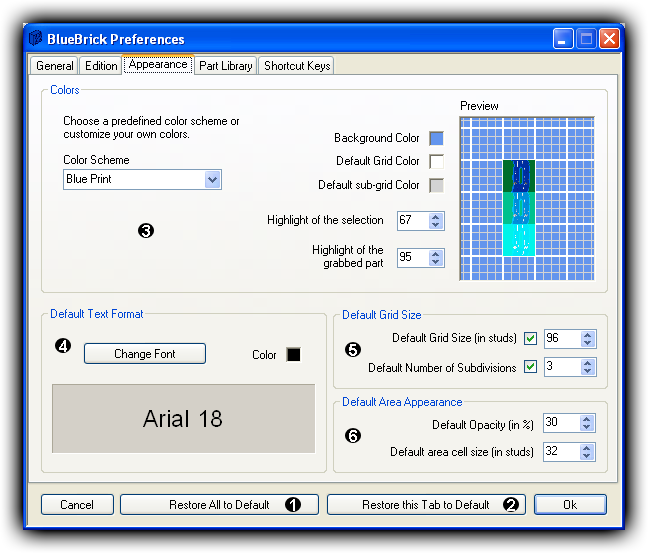
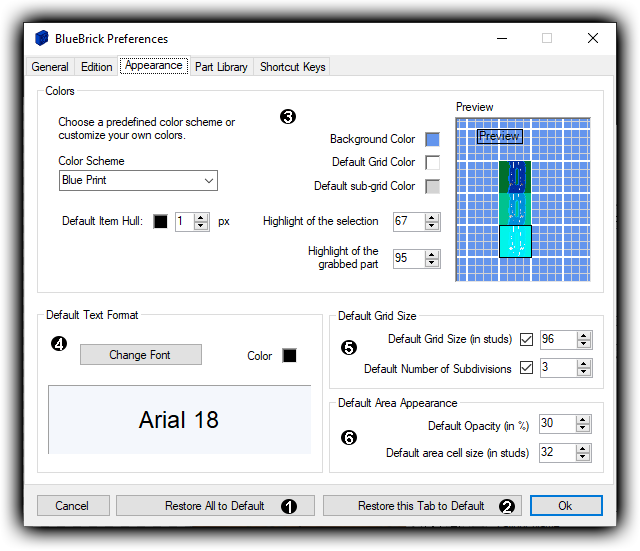
| update images of the Appearance Preference tab in all language | minor update to the doc of the Appearance Preference tab

diff --git a/Help/es/Preferences_Appearance.htm b/Help/es/Preferences_Appearance.htm
@@ -1,22 +1,23 @@
-<HTML>
-<HEAD>
-<!-- Inserted by TRADOS: --><META HTTP-EQUIV="content-type" CONTENT="text/html; charset=windows-1252">
+<html>
+<head>
+<meta http-equiv="content-type" content="text/html; charset=utf-8">
+<meta name="keywords" content="BlueBrick, Help">
+<meta name="description" content="The reference documentation for BlueBrick.">
+<meta name="author" content="Alex McKenna">
+<link rel="StyleSheet" href="../BlueBrick.css" type="text/css" media="screen">
+<title>Opciones de apariencia</title>
+</head>
+<body>
+<h1>Preferencias de apariencia</h1>
+<center><img src="Preferences_Appearance.png"></center>
 
-<META NAME="keywords" CONTENT="BlueBrick, Help">
-<META NAME="description" CONTENT="The reference documentation for BlueBrick.">
-<META NAME="author" CONTENT="Alex McKenna">
-<LINK REL=StyleSheet HREF="../BlueBrick.css" TYPE="text/css" MEDIA=screen>
-<Title>Opciones de apariencia</Title>
-</HEAD>
-<BODY>
-<H1>Preferencias de apariencia</H1>
-<CENTER><IMG SRC="Preferences_Appearance.png"></CENTER>
+<p>El botón <span class="RefNumber">1</span> le permite restaurar todas las preferencias a sus valores por defecto, como cuando instaló BlueBrick por primera vez. El botón <span class="RefNumber">2</span> le permite restaurar sólo las preferencias mostradas en la categoría visible actual.</p>
 
-<P>El <B>esquema de colores</B> <span class="RefNumber">3</span> por defecto es &quot;Blue Print&quot;. Tambi&eacute;n puedes seleccionar las versiones Pergamino o Cl&aacute;sico. Puedes crear esquemas de colores personalizados seleccionando la opci&oacute;n &quot;Personalizado de la lista desplegable y seleccionando tus colores en las cajas de colores al lado de las descripciones de texto : &quot;Color de fondo&quot;, &quot;Color de cuadr&iacute;cula &quot; y &quot;Color de sub-cuadr&iacute;cula&quot; <div class="ToTranslate">You can also adjust the highlight percentage for the selected parts and for the single part you grab in a group of selected parts.</div> El resultado de tu selecci&oacute;n de colores se mostrar&aacute; en la ventana de muestra. Los cambios no tendr&aacute;n efecto hasta que pulses &quot;OK&quot;.</P>
+<P>El <B>esquema de colores</B> <span class="RefNumber">3</span> por defecto es &quot;Blue Print&quot;. Tambi&eacute;n puedes seleccionar las versiones Pergamino o Cl&aacute;sico. Puedes crear esquemas de colores personalizados seleccionando la opci&oacute;n &quot;Personalizado de la lista desplegable y seleccionando tus colores en las cajas de colores al lado de las descripciones de texto : &quot;Color de fondo&quot;, &quot;Color de cuadr&iacute;cula &quot; y &quot;Color de sub-cuadr&iacute;cula&quot; <div class="ToTranslate">Below, you can adjust the highlight percentage for the selected parts and for the single part you grab in a group of selected parts. You can also set the default color and size of the item hull (this apply to parts, texts and rulers).</div> El resultado de tu selecci&oacute;n de colores se mostrar&aacute; en la ventana de muestra. Los cambios no tendr&aacute;n efecto hasta que pulses &quot;OK&quot;.</P>
 
-<p>You can also set the <b>default text format</b> <span class="RefNumber">4</span> (font style and color) which will be used each time you create a new text on your map.</p>
+<p>You can also set the <b>default text format</b> <span class="RefNumber">4</span> (font style and color) which will be used each time you create a new text on your map. This settings also affect the dimension displayed by the rulers.</p>
 
 <p>Similarly you can set the default settings for each new grid layer <span class="RefNumber">5</span> and each new area layer <span class="RefNumber">6</span>. To tune the default ruler style see the <a href="Preferences_Edition.htm">Edition Preference</a> section.</p>
 
-</BODY>
-</HTML>
+</body>
+</html>

diff --git a/Help/nl/Preferences_Appearance.htm b/Help/nl/Preferences_Appearance.htm
@@ -1,20 +1,22 @@
-<HTML>
-<HEAD>
-<META NAME="keywords" CONTENT="BlueBrick, Help">
-<META NAME="description" CONTENT="The reference documentation for BlueBrick.">
-<META NAME="author" CONTENT="Alex McKenna">
-<LINK REL=StyleSheet HREF="../BlueBrick.css" TYPE="text/css" MEDIA=screen>
-<Title>Beschikbare verbindingspunten</Title>
-</HEAD>
-<BODY>
-<H1>Beschikbare verbindingspunten</H1>
-<CENTER><IMG SRC="Preferences_Appearance.png"></CENTER>
+<html>
+<head>
+<meta name="keywords" content="BlueBrick, Help">
+<meta name="description" content="The reference documentation for BlueBrick.">
+<meta name="author" content="Alex McKenna">
+<link rel="StyleSheet" href="../BlueBrick.css" type="text/css" media="screen">
+<title>Beschikbare verbindingspunten</title>
+</head>
+<body>
+<h1>Beschikbare verbindingspunten</h1>
+<center><img src="Preferences_Appearance.png"></center>
 
-<P>Het standaard <B>kleurenschema</B> <span class="RefNumber">3</span> is "Blue Print". Je kunt ook voor klassieke versies kiezen. Aangepaste kleurenschema's kunnen worden gemaakt door te kiezen voor "Custom" uit drop-down lijst en het kiezen van de gewenste kleuren door te klikken op de kleur vakjes naast de tekst vermeldingen, "Achtergrondkleur", "Standaard RasterKleur" en "Standaard sub-raster kleur". <div class="ToTranslate">You can also adjust the highlight percentage for the selected parts and for the single part you grab in a group of selected parts.</div> Het resultaat van de kleur selectie zal worden weergegeven in het voorbeeldvenster.  De veranderingen zullen pas van kracht na het klikken op de "OK" button.</P>
+<p>Met de knop <span class="RefNumber">1</span> kun je alle voorkeuren terugzetten naar hun standaardwaarden, zoals toen je BlueBrick voor de eerste keer installeerde. Met de knop <span class="RefNumber">2</span> kun je alleen de voorkeuren herstellen die in de huidige zichtbare categorie worden weergegeven.</p>
 
-<p>You can also set the <b>default text format</b> <span class="RefNumber">4</span> (font style and color) which will be used each time you create a new text on your map.</p>
+<p>Het standaard <B>kleurenschema</B> <span class="RefNumber">3</span> is "Blue Print". Je kunt ook voor klassieke versies kiezen. Aangepaste kleurenschema's kunnen worden gemaakt door te kiezen voor "Custom" uit drop-down lijst en het kiezen van de gewenste kleuren door te klikken op de kleur vakjes naast de tekst vermeldingen, "Achtergrondkleur", "Standaard RasterKleur" en "Standaard sub-raster kleur". <div class="ToTranslate">Below, you can adjust the highlight percentage for the selected parts and for the single part you grab in a group of selected parts. You can also set the default color and size of the item hull (this apply to parts, texts and rulers).</div> Het resultaat van de kleur selectie zal worden weergegeven in het voorbeeldvenster.  De veranderingen zullen pas van kracht na het klikken op de "OK" button.</p>
+
+<p>You can also set the <b>default text format</b> <span class="RefNumber">4</span> (font style and color) which will be used each time you create a new text on your map. This settings also affect the dimension displayed by the rulers.</p>
 
 <p>Similarly you can set the default settings for each new grid layer <span class="RefNumber">5</span> and each new area layer <span class="RefNumber">6</span>. To tune the default ruler style see the <a href="Preferences_Edition.htm">Edition Preference</a> section.</p>
 
-</BODY>
-</HTML>
+</body>
+</html>

diff --git a/Help/de/Preferences_Appearance.htm b/Help/de/Preferences_Appearance.htm
@@ -1,20 +1,22 @@
-<HTML>
-<HEAD>
-<META NAME="keywords" CONTENT="BlueBrick, Help">
-<META NAME="description" CONTENT="The reference documentation for BlueBrick.">
-<META NAME="author" CONTENT="Alex McKenna">
-<LINK REL=StyleSheet HREF="../BlueBrick.css" TYPE="text/css" MEDIA=screen>
-<Title>Aussehen einstellen</Title>
-</HEAD>
-<BODY>
-<H1>Aussehen (Erscheinungsbild) einstellen</H1>
-<CENTER><IMG SRC="Preferences_Appearance.png"></CENTER>
+<html>
+<head>
+<meta name="keywords" content="BlueBrick, Help">
+<meta name="description" content="The reference documentation for BlueBrick.">
+<meta name="author" content="Alex McKenna">
+<link rel="StyleSheet" href="../BlueBrick.css" type="text/css" media="screen">
+<title>Aussehen einstellen</title>
+</head>
+<body>
+<h1>Aussehen (Erscheinungsbild) einstellen</h1>
+<center><img src="Preferences_Appearance.png"></center>
 
-<P>Das Standard- <B>Farbschema</B> <span class="RefNumber">3</span> ist "Blaupause". Es kann auch "Pergament" oder "Klassisch" ausgewählt werden. Benutzerdefinierte Farbschemata können durch Auswahl "Erweitert" und Anklicken der farbigen Kästchen hinter "Hintergrundfarbe", "Standard Rasterfarbe" und "Standard Unterrasterfarbe" erstellt werden. <div class="ToTranslate">You can also adjust the highlight percentage for the selected parts and for the single part you grab in a group of selected parts.</div> Das Ergebnis der Farbauswahl wird im Vorschaufenster angezeigt. Mit Anklicken des Buttons "OK".</P>
+<p>Mit der Schaltfläche <span class="RefNumber">1</span> können Sie alle Einstellungen auf ihre Standardwerte zurücksetzen, wie bei der Erstinstallation von BlueBrick. Mit der Schaltfläche <span class="RefNumber">2</span> können Sie nur die Einstellungen wiederherstellen, die in der aktuell sichtbaren Kategorie angezeigt werden.</p>
 
-<p>You can also set the <b>default text format</b> <span class="RefNumber">4</span> (font style and color) which will be used each time you create a new text on your map.</p>
+<P>Das Standard- <B>Farbschema</B> <span class="RefNumber">3</span> ist "Blaupause". Es kann auch "Pergament" oder "Klassisch" ausgewählt werden. Benutzerdefinierte Farbschemata können durch Auswahl "Erweitert" und Anklicken der farbigen Kästchen hinter "Hintergrundfarbe", "Standard Rasterfarbe" und "Standard Unterrasterfarbe" erstellt werden. <div class="ToTranslate">Below, you can adjust the highlight percentage for the selected parts and for the single part you grab in a group of selected parts. You can also set the default color and size of the item hull (this apply to parts, texts and rulers).</div> Das Ergebnis der Farbauswahl wird im Vorschaufenster angezeigt. Mit Anklicken des Buttons "OK".</P>
+
+<p>You can also set the <b>default text format</b> <span class="RefNumber">4</span> (font style and color) which will be used each time you create a new text on your map. This settings also affect the dimension displayed by the rulers.</p>
 
 <p>Similarly you can set the default settings for each new grid layer <span class="RefNumber">5</span> and each new area layer <span class="RefNumber">6</span>. To tune the default ruler style see the <a href="Preferences_Edition.htm">Edition Preference</a> section.</p>
 
-</BODY>
-</HTML>
+</body>
+</html>

diff --git a/Help/fr/Preferences_Appearance.htm b/Help/fr/Preferences_Appearance.htm
@@ -12,9 +12,11 @@
 <h1>Préférences d'apparence</h1>
 <center><img src="Preferences_Appearance.png"></center>
 
-<P>Par défaut le <b>Schéma de Couleurs</b> <span class="RefNumber">3</span> est "Blue Print". Vous pouvez sélectionner une version Parchemin ou Classique. Les schémas de couleurs personnalisés peuvent être configurés en choisissant la couleur en cliquant sur la boite de couleurs à la droite des textes : "Couleur de fond", "Couleur de grille par défaut" et "Couleur par défaut de la sous-grille". Vous pouvez aussi ajuster le pourcentage de surbrillance des pièces sélectionnées et de la pièce unique que vous attrapez dans un groupe de pièces sélectionnées. Le résultat de votre choix de couleurs sera présenté dans la fenêtre de prévisualisation. Ces changements ne seront effectifs que lorsque vous aurez cliqué sur le bouton "Ok".</p>
+<p>Le bouton <span class="RefNumber">1</span> vous permet de restaurer toutes les préférences aux valeurs par défaut, comme lorsque vous avez installé BlueBrick pour la première fois. Le bouton <span class="RefNumber">2</span> vous permet de ne restaurer que les préférences affichées sur la catégorie visible actuellement.</p>
 
-<p>Vous pouvez aussi choisir le <b>format des textes par défaut</b> <span class="RefNumber">4</span> (police et couleur) qui seront utilisées chaque fois que vous créerez un nouveau texte sur votre plan.</p>
+<P>Par défaut le <b>Schéma de Couleurs</b> <span class="RefNumber">3</span> est "Blue Print". Vous pouvez sélectionner une version Parchemin ou Classique. Les schémas de couleurs personnalisés peuvent être configurés en choisissant la couleur en cliquant sur la boite de couleurs à la droite des textes : "Couleur de fond", "Couleur de grille par défaut" et "Couleur par défaut de la sous-grille". En dessous, vous pouvez ajuster le pourcentage de surbrillance des pièces sélectionnées et de la pièce unique que vous attrapez dans un groupe de pièces sélectionnées. Vous pouvez également définir la couleur et la taille par défaut du contours des éléments (cela s'applique aux pièces, aux textes et aux règles). Le résultat de votre choix de couleurs sera présenté dans la fenêtre de prévisualisation. Ces changements ne seront effectifs que lorsque vous aurez cliqué sur le bouton "Ok".</p>
+
+<p>Vous pouvez aussi choisir le <b>format des textes par défaut</b> <span class="RefNumber">4</span> (police et couleur) qui seront utilisées chaque fois que vous créerez un nouveau texte sur votre plan. Ces paramètres affectent également la dimension affichée par les règles.</p>
 
 <p>De la même façon vous pouvez choisir les options par défaut pour chaque nouveau calque de type grille <span class="RefNumber">5</span> et chaque nouveau calque de type zone <span class="RefNumber">6</span>. Pour ajuster le style par défaut des règles lisez la section <a href="Preferences_Edition.htm">Préference d'Edition</a>.</p>
 

diff --git a/Help/en/Preferences_Appearance.htm b/Help/en/Preferences_Appearance.htm
@@ -10,9 +10,11 @@
 <h1>Appearance Preferences</h1>
 <center><img src="Preferences_Appearance.png"></center>
 
-<p>The default <b>Color Scheme</b> <span class="RefNumber">3</span> is "Blue Print" You can also select a Parchment or Classic version. Custom color schemes can be made by choosing your colors by clicking on the color boxes next to the following text entries: "Background Color", "Default Grid Color" and "Default sub-grid Color". You can also adjust the highlight percentage for the selected parts and for the single part you grab in a group of selected parts. The result of your color settings will be shown in the preview window. The changes will not take effect until after press the "Ok" button.</p>
+<p>The button <span class="RefNumber">1</span> let you restore all the preferences to their default values, as when you installed BlueBrick for the first time. The button <span class="RefNumber">2</span> let you restore only the preferences displayed on the current visible category.</p>
 
-<p>You can also set the <b>default text format</b> <span class="RefNumber">4</span> (font style and color) which will be used each time you create a new text on your map.</p>
+<p>The default <b>Color Scheme</b> <span class="RefNumber">3</span> is "Blue Print" You can also select a Parchment or Classic version. Custom color schemes can be made by choosing your colors by clicking on the color boxes next to the following text entries: "Background Color", "Default Grid Color" and "Default sub-grid Color". Below, you can adjust the highlight percentage for the selected parts and for the single part you grab in a group of selected parts. You can also set the default color and size of the item hull (this apply to parts, texts and rulers). The result of your color settings will be shown in the preview window. The changes will not take effect until after press the "Ok" button.</p>
+
+<p>You can also set the <b>default text format</b> <span class="RefNumber">4</span> (font style and color) which will be used each time you create a new text on your map. This settings also affect the dimension displayed by the rulers.</p>
 
 <p>Similarly you can set the default settings for each new grid layer <span class="RefNumber">5</span> and each new area layer <span class="RefNumber">6</span>. To tune the default ruler style see the <a href="Preferences_Edition.htm">Edition Preference</a> section.</p>
 
